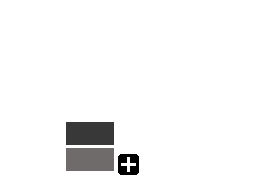
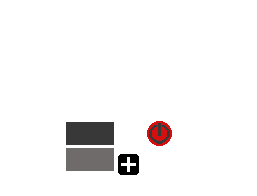
Addd Power button asset

Changed region(s): [[0.5603, 0.6122, 0.6848, 0.7653]]

diff --git a/app/src/main/java/th/zirata/WorldRenderer.java b/app/src/main/java/th/zirata/WorldRenderer.java
@@ -180,6 +180,7 @@ public class WorldRenderer {
 
 		batcher.drawSprite(30, 30, -60, 60, Assets.textureRegions.get("Arrow"));
 		batcher.drawSprite(60, 30, 60, 60, Assets.textureRegions.get("Arrow"));
+		batcher.drawSprite(285, 30, 60, 60, Assets.textureRegions.get("PowerButton"));
 		batcher.endBatch();
 	}
 }
